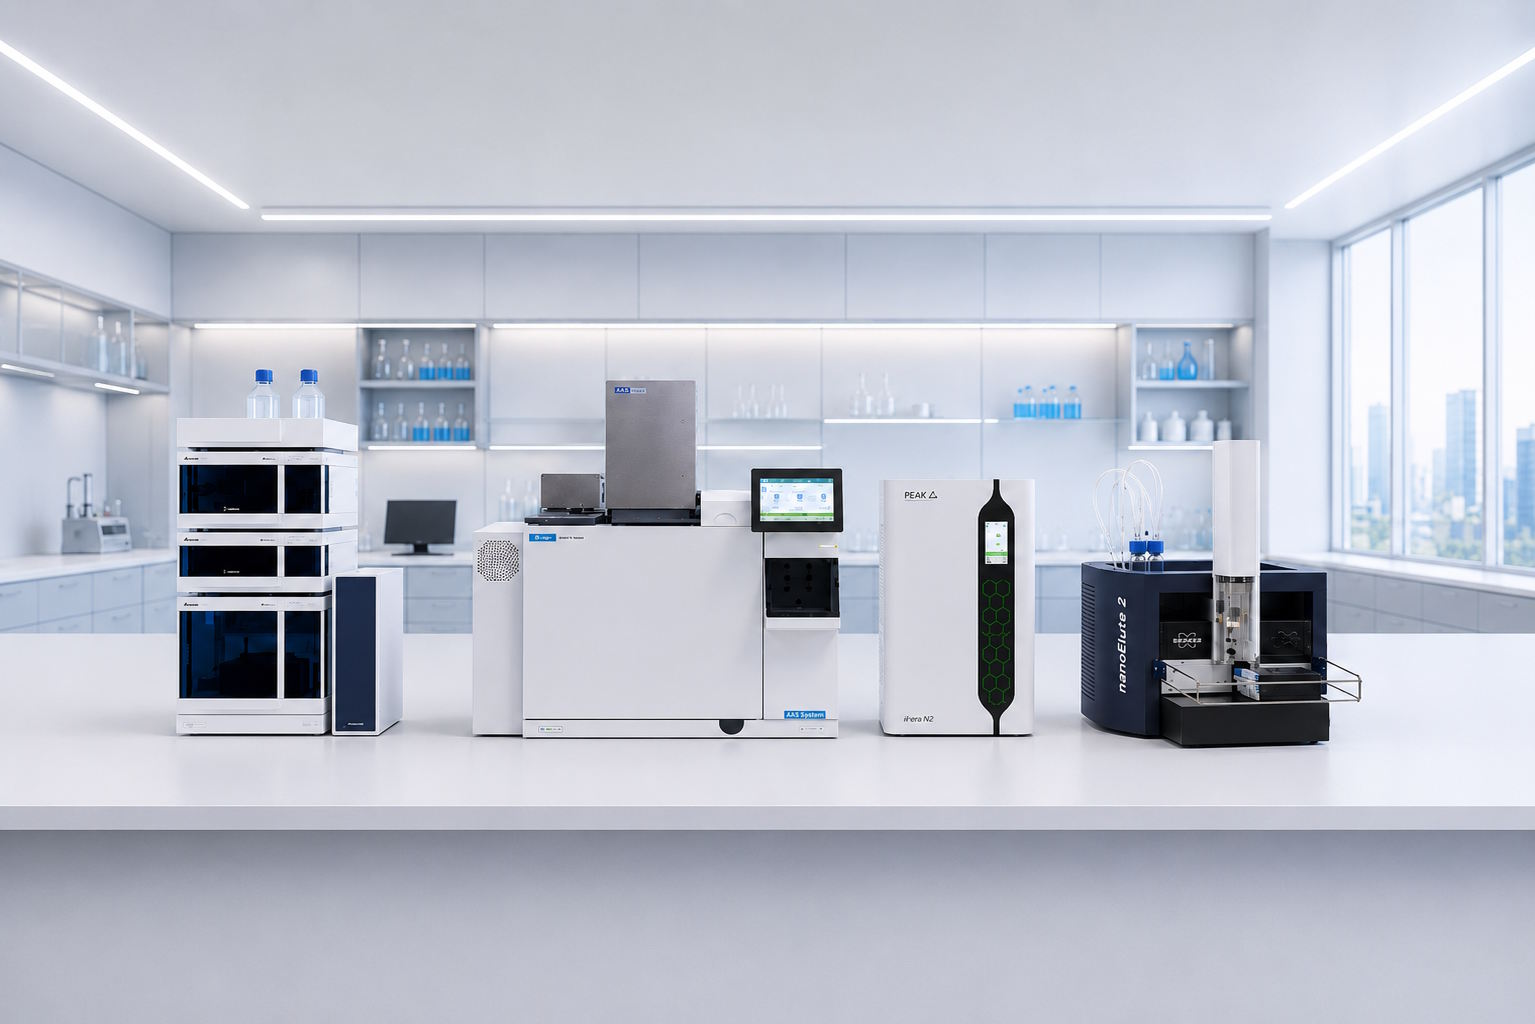
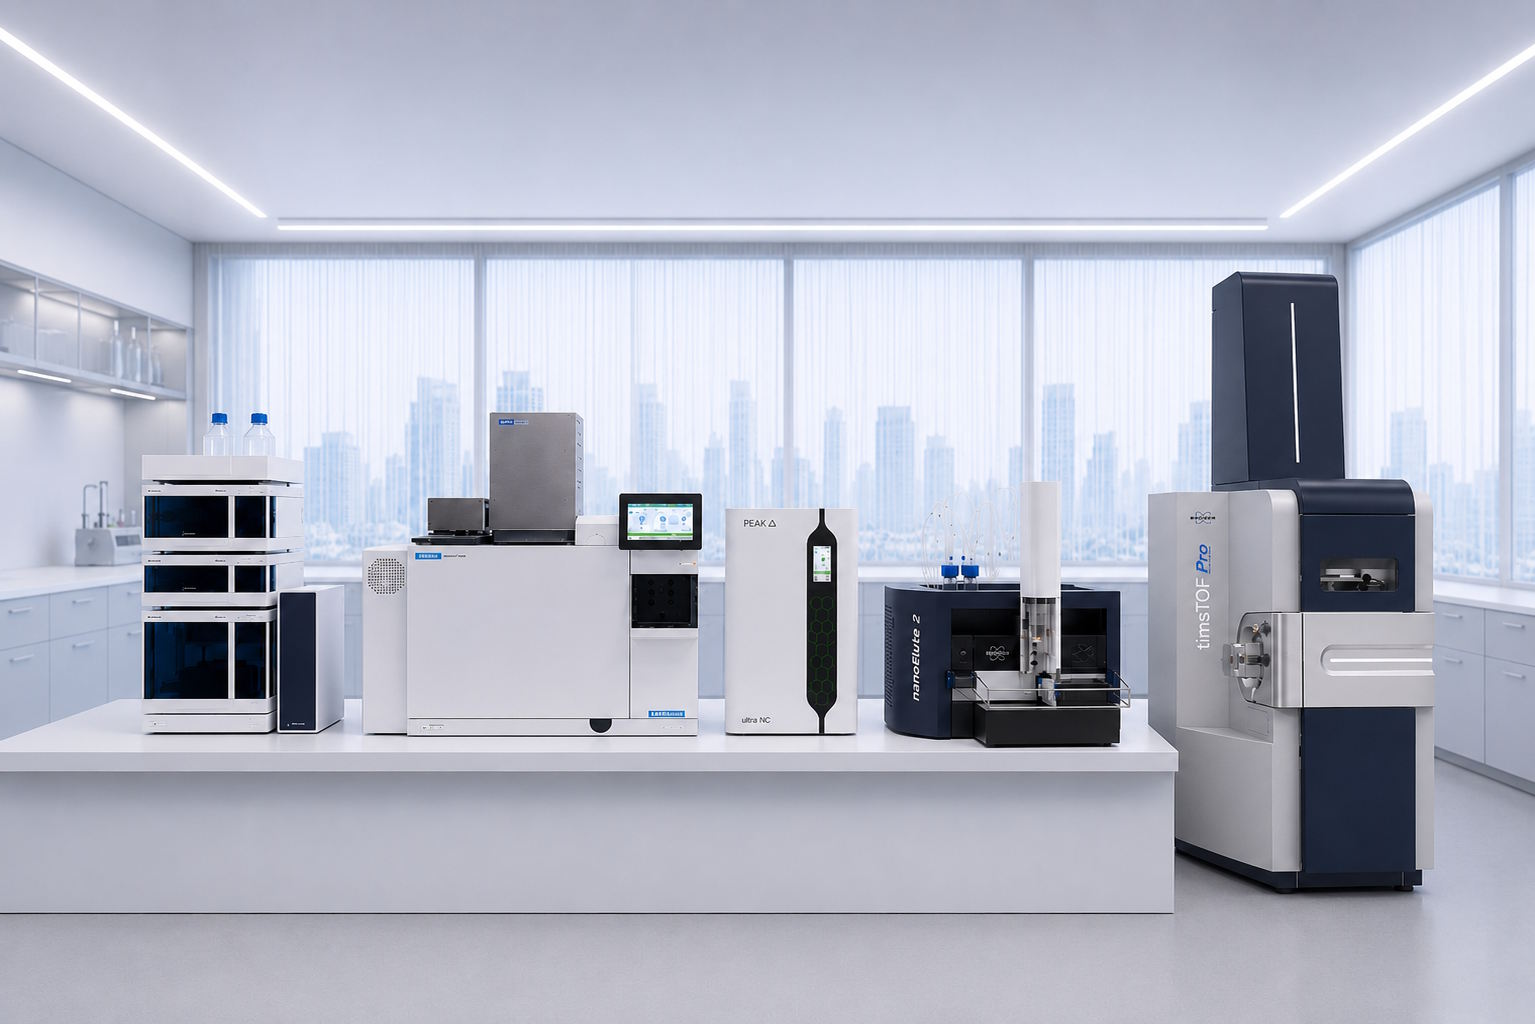
feat: mobile improvements, footer update, new hero image
- Fix hero mobile layout: text box top-left, no full-cover overlap
- Show nav links on mobile as second header row
- Reduce coming-soon cards from 3 to 1
- USP467: hide breadcrumb on mobile, hide CAS/PDE/notes columns
- USP467: fix logo IA color (specificity), overflow-x hidden
- USP467: dark footer with back button and AGS info
- USP467: small-phone (390px) font adjustments
- Fix solvent count 64->60 in landing card
- Update hero image, add AGS_Logo.jpg, viales_Logo.jpg

diff --git a/usp467/index.html b/usp467/index.html
@@ -28,6 +28,7 @@
       min-height: 100vh;
       display: flex;
       flex-direction: column;
+      overflow-x: hidden;
     }
 
     /* ── Header ─────────────────────────────────── */
@@ -52,7 +53,7 @@
       white-space: nowrap;
     }
     .logo span { color: #fff; }
-    .logo-ia { color: #38bdf8; font-style: italic; }
+    .logo span.logo-ia { color: #38bdf8; font-style: italic; }
     .breadcrumb {
       font-size: 0.8rem;
       color: #93c5fd;
@@ -487,23 +488,102 @@
 
     /* ── Footer ──────────────────────────────────── */
     footer {
-      border-top: 1px solid var(--border);
-      background: var(--surface);
-      padding: 1.25rem 2rem;
-      text-align: center;
-      font-size: .8rem;
-      color: var(--muted);
+      background: #0d1b35;
+      color: #94a3b8;
+      padding: 2rem 2rem 2.5rem;
+      font-size: 0.8rem;
     }
-    footer a { color: var(--primary); text-decoration: none; }
+    .footer-inner {
+      max-width: 1200px;
+      margin: 0 auto;
+      display: flex;
+      flex-direction: column;
+      gap: 1.5rem;
+      align-items: center;
+      text-align: center;
+    }
+    .footer-back {
+      display: inline-block;
+      background: #fff;
+      color: #0d1b35;
+      font-weight: 700;
+      font-size: 0.95rem;
+      padding: .85rem 2.5rem;
+      border-radius: 10px;
+      text-decoration: none;
+      transition: opacity .15s;
+    }
+    .footer-back:hover { opacity: .88; }
+    .footer-ags {
+      display: flex;
+      flex-wrap: wrap;
+      gap: .5rem 1.5rem;
+      justify-content: center;
+      align-items: center;
+      font-size: .8rem;
+    }
+    .footer-ags a { color: #93c5fd; text-decoration: none; }
+    .footer-ags a:hover { color: #fff; }
+    .footer-sep { color: #334155; }
+    .footer-copy {
+      color: #475569;
+      font-size: 0.72rem;
+      border-top: 1px solid rgba(255,255,255,.06);
+      padding-top: 1rem;
+      width: 100%;
+      text-align: center;
+    }
 
     mark { background: #fef9c3; color: inherit; border-radius: 2px; padding: 0 .1em; }
 
     @media (max-width: 640px) {
-      .page-header h1 { font-size: 1.2rem; }
+      /* header */
+      header { padding: 0 1rem; }
+      .breadcrumb { display: none; }
+
+      /* page header */
+      .page-header { padding: 1rem 1rem; }
+      .page-header h1 { font-size: 1.15rem; }
+
+      /* selector */
+      .selector-panel { padding: 1rem 1rem; }
+
+      /* controls */
       .controls-bar { padding: .75rem 1rem; }
+      .search-wrap { max-width: 100%; }
+
+      /* main */
       main { padding: 1rem 1rem 2rem; }
-      th, td { padding: .6rem .75rem; }
+
+      /* legend compact */
+      .legend { flex-direction: column; gap: .4rem; }
+      .legend-item { padding: .35rem .75rem; font-size: .75rem; }
+
+      /* table: hide CAS, PDE, Observaciones */
+      th, td { padding: .55rem .6rem; }
+      #solvent-table th:nth-child(3),
+      #solvent-table td:nth-child(3),
+      #solvent-table th:nth-child(6),
+      #solvent-table td:nth-child(6),
+      #solvent-table th:nth-child(7),
+      #solvent-table td:nth-child(7) { display: none; }
+
       .concern-text { display: none; }
+      .solvent-alias { display: none; }
+      .col-full { display: none; }
+      .col-short { display: inline; }
+    }
+    @media (min-width: 641px) {
+      .col-short { display: none; }
+    }
+
+    @media (max-width: 390px) {
+      #solvent-table { font-size: .78rem; }
+      #solvent-table th, #solvent-table td { padding: .45rem .4rem; }
+      .btn-add { font-size: .68rem; padding: .15rem .4rem; }
+      .class-badge { font-size: .62rem; padding: .15rem .35rem; }
+      .filter-btn { font-size: .72rem; padding: .3rem .6rem; }
+      #search, #solvent-input { font-size: .82rem; }
     }
   </style>
 </head>
@@ -614,7 +694,7 @@
               <th data-col="name">Solvente <span class="sort-icon">↕</span></th>
               <th data-col="cas">CAS <span class="sort-icon">↕</span></th>
               <th data-col="class">Clase <span class="sort-icon">↕</span></th>
-              <th data-col="limit">Límite (ppm) <span class="sort-icon">↕</span></th>
+              <th data-col="limit"><span class="col-full">Límite (ppm)</span><span class="col-short">ppm</span> <span class="sort-icon">↕</span></th>
               <th data-col="pde">PDE oral (mg/día) <span class="sort-icon">↕</span></th>
               <th data-col="concern">Observaciones</th>
             </tr>
@@ -631,7 +711,23 @@
   </main>
 
   <footer>
-    <p>cromatografia.com.ar &mdash; <a href="/">Volver al inicio</a> &mdash; Fuente: ICH Q3C (R8) / USP &lt;467&gt;</p>
+    <div class="footer-inner">
+
+      <a class="footer-back" href="/">← Volver a cromatografia.com.ar</a>
+
+      <div class="footer-ags">
+        <strong style="color:#e2e8f0;">AGS Analítica S.A.</strong>
+        <span class="footer-sep">|</span>
+        <a href="https://www.agsanalitica.com" target="_blank" rel="noopener">agsanalitica.com</a>
+        <span class="footer-sep">|</span>
+        <a href="https://www.agsanalitica.com/es/soporte-tecnico" target="_blank" rel="noopener">Soporte técnico</a>
+      </div>
+
+      <div class="footer-copy">
+        Fuente: ICH Q3C (R8) / USP &lt;467&gt; &mdash; &copy; 2025 AGS ANALÍTICA S.A.
+      </div>
+
+    </div>
   </footer>
 
   <script>

diff --git a/index.html b/index.html
@@ -33,7 +33,7 @@
     header {
       background: #0d1b35;
       color: #fff;
-      padding: 0 2rem;
+      padding: 0 1.25rem;
     }
     .header-inner {
       max-width: 1100px;
@@ -43,6 +43,23 @@
       justify-content: space-between;
       height: 64px;
       gap: 1rem;
+    }
+    @media (max-width: 600px) {
+      header { padding: 0 1rem; }
+      .header-inner {
+        height: auto;
+        flex-wrap: wrap;
+        padding: .6rem 0;
+        gap: .3rem;
+      }
+      .header-tagline { display: none; }
+      nav {
+        width: 100%;
+        justify-content: flex-start;
+        gap: .1rem;
+        padding-bottom: .3rem;
+      }
+      nav a { font-size: 0.72rem; padding: .25rem .45rem; }
     }
     .logo {
       font-size: 1.25rem;
@@ -129,14 +146,12 @@
       letter-spacing: -0.02em;
       line-height: 1.2;
       margin-bottom: .35rem;
-      white-space: nowrap;
     }
     .hero-text p {
       font-size: .85rem;
       color: #bfdbfe;
       line-height: 1.5;
       margin-bottom: .9rem;
-      white-space: nowrap;
     }
     .hero-cta {
       display: inline-block;
@@ -152,10 +167,21 @@
     .hero-cta:hover { opacity: .9; }
 
     @media (max-width: 600px) {
-      .hero { min-height: 0; }
-      .hero-bg { object-position: 10% center; }
-      .hero-inner { padding: 2.5rem 1.25rem; }
-      .hero-text { max-width: 100%; padding: 1.5rem; }
+      .hero { min-height: 280px; }
+      .hero-bg { object-position: center center; }
+      .hero-inner {
+        padding: 1rem 1rem 1.25rem;
+        align-items: flex-start;
+        justify-content: flex-start;
+      }
+      .hero-text {
+        max-width: 65%;
+        padding: .75rem 1rem;
+        text-align: left;
+      }
+      .hero-text h1 { font-size: 1.05rem; }
+      .hero-text p  { font-size: .72rem; margin-bottom: 0; }
+      .hero-cta     { display: none; }
     }
 
     /* ── Main ────────────────────────────────────── */
@@ -322,7 +348,7 @@
           <div class="card-icon">⚗️</div>
           <span class="card-tag tag-live">Disponible</span>
           <div class="card-title">Solventes Residuales USP &lt;467&gt;</div>
-          <div class="card-desc">64 solventes con clase, PDE, límite en ppm y CAS. Buscá por nombre o filtrá por clase.</div>
+          <div class="card-desc">60 solventes con clase, PDE, límite en ppm y CAS. Buscá por nombre o filtrá por clase.</div>
           <div class="card-footer">Abrir herramienta →</div>
         </a>
 
@@ -335,24 +361,6 @@
           </div>
         </div>
 
-        <div class="card coming-soon">
-          <div class="card-icon">🧪</div>
-          <span class="card-tag tag-soon">Próximamente</span>
-          <div class="blur-content">
-            <div class="card-title">Límites USP &lt;232&gt; / &lt;233&gt;</div>
-            <div class="card-desc">Impurezas elementales según ICH Q3D. Búsqueda por elemento y vía de administración.</div>
-          </div>
-        </div>
-
-        <div class="card coming-soon">
-          <div class="card-icon">📐</div>
-          <span class="card-tag tag-soon">Próximamente</span>
-          <div class="blur-content">
-            <div class="card-title">Validación de métodos analíticos</div>
-            <div class="card-desc">LOD/LOQ, linealidad, recuperación y precisión según ICH Q2(R2).</div>
-          </div>
-        </div>
-
       </div>
 
       <hr class="divider" />
@@ -361,7 +369,7 @@
       <div class="cards-grid">
 
         <a class="card external" href="https://www.agsanalitica.com" target="_blank" rel="noopener">
-          <div class="card-icon">🏢</div>
+          <div class="card-icon" style="background:none;padding:0;"><img src="/AGS_Logo.jpg" alt="AGS Analítica" style="width:44px;height:44px;object-fit:contain;border-radius:8px;" /></div>
           <span class="card-tag tag-link">AGS Analítica</span>
           <div class="card-title">Sobre nosotros</div>
           <div class="card-desc">Representantes de Bruker, Joint Analytical Systems, Peak Scientific y DataApex en Argentina.</div>
@@ -377,7 +385,13 @@
         </a>
 
         <a class="card external" href="https://www.viales.com.ar" target="_blank" rel="noopener">
-          <div class="card-icon">🧴</div>
+          <div class="card-icon" style="background:#eff6ff;">
+            <svg width="22" height="22" viewBox="0 0 24 24" fill="none" stroke="#1d4ed8" stroke-width="1.8" stroke-linecap="round" stroke-linejoin="round">
+              <path d="M9 3h6M9 3v7l-4 8a1 1 0 00.9 1.5h12.2A1 1 0 0025 18l-4-8V3"/>
+              <line x1="9" y1="3" x2="15" y2="3"/>
+              <line x1="8" y1="13" x2="16" y2="13"/>
+            </svg>
+          </div>
           <span class="card-tag tag-link">Consumibles</span>
           <div class="card-title">viales.com.ar</div>
           <div class="card-desc">Viales, tapas, insertos y consumibles para cromatografía. Envío a todo el país.</div>